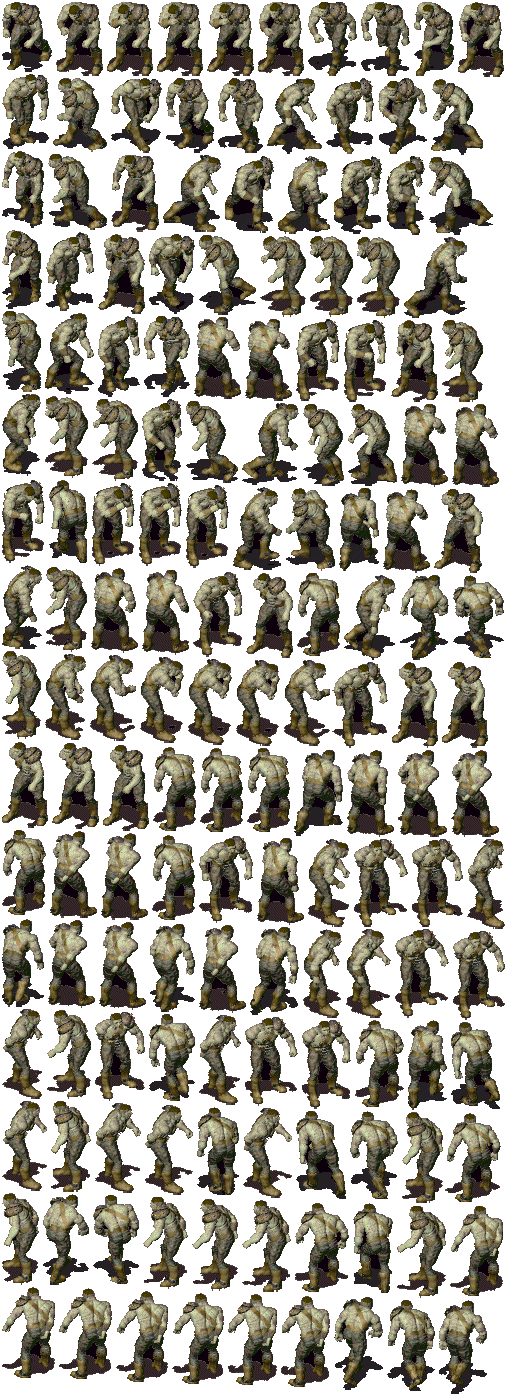
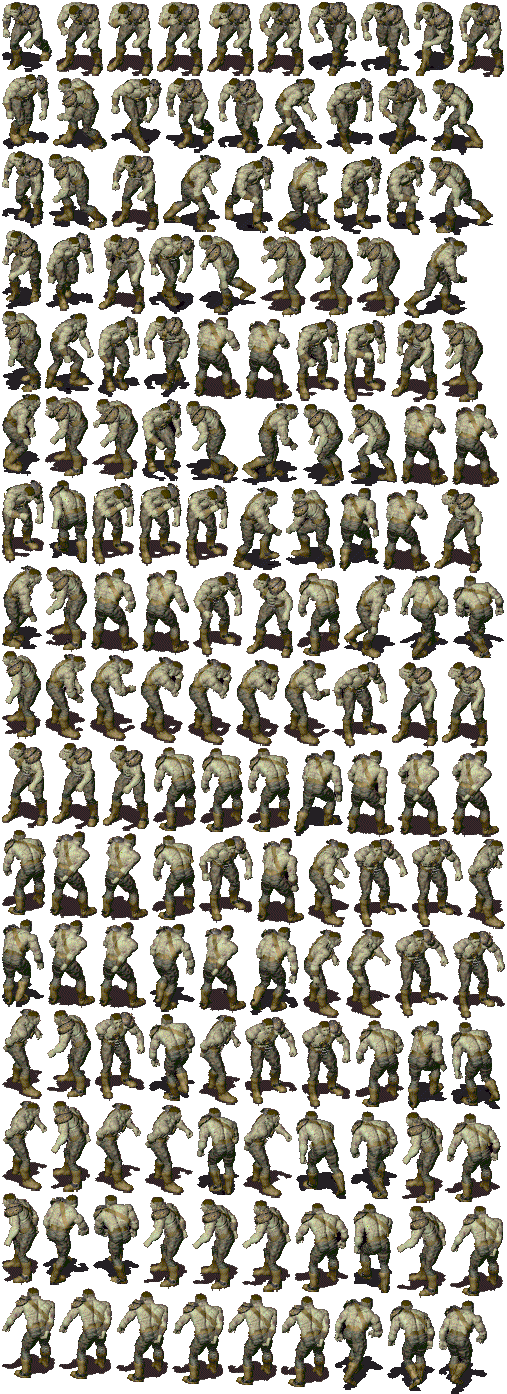
add lil wiggle and clean up mutant

diff --git a/client/src/anims/CharacterAnims.ts b/client/src/anims/CharacterAnims.ts
@@ -126,8 +126,8 @@ export const createCharacterAnims = (anims: Phaser.Animations.AnimationManager) 
   anims.create({
     key: 'lucy_idle_right',
     frames: anims.generateFrameNames('lucy', {
-      start: 0,
-      end: 5,
+      start: 8,
+      end: 8,
     }),
     repeat: -1,
     frameRate: animsFrameRate * 0.6,
@@ -136,8 +136,8 @@ export const createCharacterAnims = (anims: Phaser.Animations.AnimationManager) 
   anims.create({
     key: 'lucy_idle_up',
     frames: anims.generateFrameNames('lucy', {
-      start: 6,
-      end: 11,
+      start: 3,
+      end: 5,
     }),
     repeat: -1,
     frameRate: animsFrameRate * 0.6,
@@ -146,8 +146,8 @@ export const createCharacterAnims = (anims: Phaser.Animations.AnimationManager) 
   anims.create({
     key: 'lucy_idle_left',
     frames: anims.generateFrameNames('lucy', {
-      start: 12,
-      end: 17,
+      start: 6,
+      end: 6,
     }),
     repeat: -1,
     frameRate: animsFrameRate * 0.6,
@@ -156,8 +156,8 @@ export const createCharacterAnims = (anims: Phaser.Animations.AnimationManager) 
   anims.create({
     key: 'lucy_idle_down',
     frames: anims.generateFrameNames('lucy', {
-      start: 18,
-      end: 23,
+      start: 0,
+      end: 2,
     }),
     repeat: -1,
     frameRate: animsFrameRate * 0.6,
@@ -166,8 +166,8 @@ export const createCharacterAnims = (anims: Phaser.Animations.AnimationManager) 
   anims.create({
     key: 'lucy_run_right',
     frames: anims.generateFrameNames('lucy', {
-      start: 24,
-      end: 29,
+      start: 8,
+      end: 9,
     }),
     repeat: -1,
     frameRate: animsFrameRate,
@@ -176,8 +176,8 @@ export const createCharacterAnims = (anims: Phaser.Animations.AnimationManager) 
   anims.create({
     key: 'lucy_run_up',
     frames: anims.generateFrameNames('lucy', {
-      start: 30,
-      end: 35,
+      start: 3,
+      end: 5,
     }),
     repeat: -1,
     frameRate: animsFrameRate,
@@ -186,8 +186,8 @@ export const createCharacterAnims = (anims: Phaser.Animations.AnimationManager) 
   anims.create({
     key: 'lucy_run_left',
     frames: anims.generateFrameNames('lucy', {
-      start: 36,
-      end: 41,
+      start: 6,
+      end: 7,
     }),
     repeat: -1,
     frameRate: animsFrameRate,
@@ -196,8 +196,8 @@ export const createCharacterAnims = (anims: Phaser.Animations.AnimationManager) 
   anims.create({
     key: 'lucy_run_down',
     frames: anims.generateFrameNames('lucy', {
-      start: 42,
-      end: 47,
+      start: 0,
+      end: 2,
     }),
     repeat: -1,
     frameRate: animsFrameRate,
@@ -206,8 +206,8 @@ export const createCharacterAnims = (anims: Phaser.Animations.AnimationManager) 
   anims.create({
     key: 'lucy_sit_down',
     frames: anims.generateFrameNames('lucy', {
-      start: 48,
-      end: 48,
+      start: 0,
+      end: 0,
     }),
     repeat: 0,
     frameRate: animsFrameRate,
@@ -216,8 +216,8 @@ export const createCharacterAnims = (anims: Phaser.Animations.AnimationManager) 
   anims.create({
     key: 'lucy_sit_left',
     frames: anims.generateFrameNames('lucy', {
-      start: 49,
-      end: 49,
+      start: 6,
+      end: 6,
     }),
     repeat: 0,
     frameRate: animsFrameRate,
@@ -226,8 +226,8 @@ export const createCharacterAnims = (anims: Phaser.Animations.AnimationManager) 
   anims.create({
     key: 'lucy_sit_right',
     frames: anims.generateFrameNames('lucy', {
-      start: 50,
-      end: 50,
+      start: 9,
+      end: 9,
     }),
     repeat: 0,
     frameRate: animsFrameRate,
@@ -236,8 +236,8 @@ export const createCharacterAnims = (anims: Phaser.Animations.AnimationManager) 
   anims.create({
     key: 'lucy_sit_up',
     frames: anims.generateFrameNames('lucy', {
-      start: 51,
-      end: 51,
+      start: 4,
+      end: 4,
     }),
     repeat: 0,
     frameRate: animsFrameRate,

diff --git a/client/src/components/MusicBoothDialog.tsx b/client/src/components/MusicBoothDialog.tsx
@@ -24,7 +24,7 @@ const Backdrop = styled.div`
 const Wrapper = styled.div`
   width: 100%;
   height: 100%;
-  background: #222639;
+  background: #fff;
   border-radius: 16px;
   padding: 16px;
   color: #eee;
@@ -87,12 +87,14 @@ const InputWrapper = styled.form`
   border: 1px solid #42eacb;
   border-radius: 10px;
   display: flex;
+  color: #666;
   flex-direction: row;
-  background: linear-gradient(180deg, #000000c1, #242424c0);
+  background: #ccc;
 `
 
 const InputTextField = styled(InputBase)`
   border-radius: 10px;
+  color: #666;
   input {
     padding: 5px;
   }
@@ -176,13 +178,13 @@ const ListItem = styled.li`
   border-radius: 0px;
   padding: 10px;
   display: flex;
-  color: #eee;
+  color: #666;
   flex-direction: row;
   border-bottom:1px solid grey;
   justify-content: space-between;
 
   h4 {
-      color: #eee;
+      color: #666;
   }
 `
 

diff --git a/client/src/scenes/Bootstrap.ts b/client/src/scenes/Bootstrap.ts
@@ -46,8 +46,8 @@ export default class Bootstrap extends Phaser.Scene {
       frameHeight: 64,
     })
     this.load.spritesheet('musicBooths', 'assets/items/musicBooth.png', {
-      frameWidth: 64,
-      frameHeight: 64,
+      frameWidth: 82,
+      frameHeight: 55,
     })
     this.load.spritesheet('vendingmachines', 'assets/items/vendingmachine.png', {
       frameWidth: 48,
@@ -73,9 +73,9 @@ export default class Bootstrap extends Phaser.Scene {
       frameWidth: 32,
       frameHeight: 48,
     })
-    this.load.spritesheet('lucy', 'assets/character/lucy.png', {
-      frameWidth: 32,
-      frameHeight: 48,
+    this.load.spritesheet('lucy', 'assets/character/lilwiggle.png', {
+      frameWidth: 16,
+      frameHeight: 16,
     })
     this.load.spritesheet('nancy', 'assets/character/nancy.png', {
       frameWidth: 32,

diff --git a/client/src/scenes/Game.ts b/client/src/scenes/Game.ts
@@ -182,10 +182,10 @@ export default class Game extends Phaser.Scene {
     // Youtube embed test
     const youtubePlayerProps = {
       scene: this,
-      x: 650,
-      y: 100,
-      width: 320,
-      height: 240,
+      x: 800,
+      y: 180,
+      width: 240,
+      height: 180,
     }
     this.youtubePlayer = new LilYoutubePlayer({...youtubePlayerProps});
     this.youtubePlayer.load(this.youtubeUrl, false);

diff --git a/client/src/components/Chat.tsx b/client/src/components/Chat.tsx
@@ -38,6 +38,14 @@ const Wrapper = styled.div`
 
 const FabWrapper = styled.div`
   margin-top: auto;
+
+  button {
+    font-size: 14px;
+    text-transform: lowercase !important;
+    line-height: 100%;
+    background-color: white !important;
+  }
+
 `
 
 const ChatHeader = styled.div`
